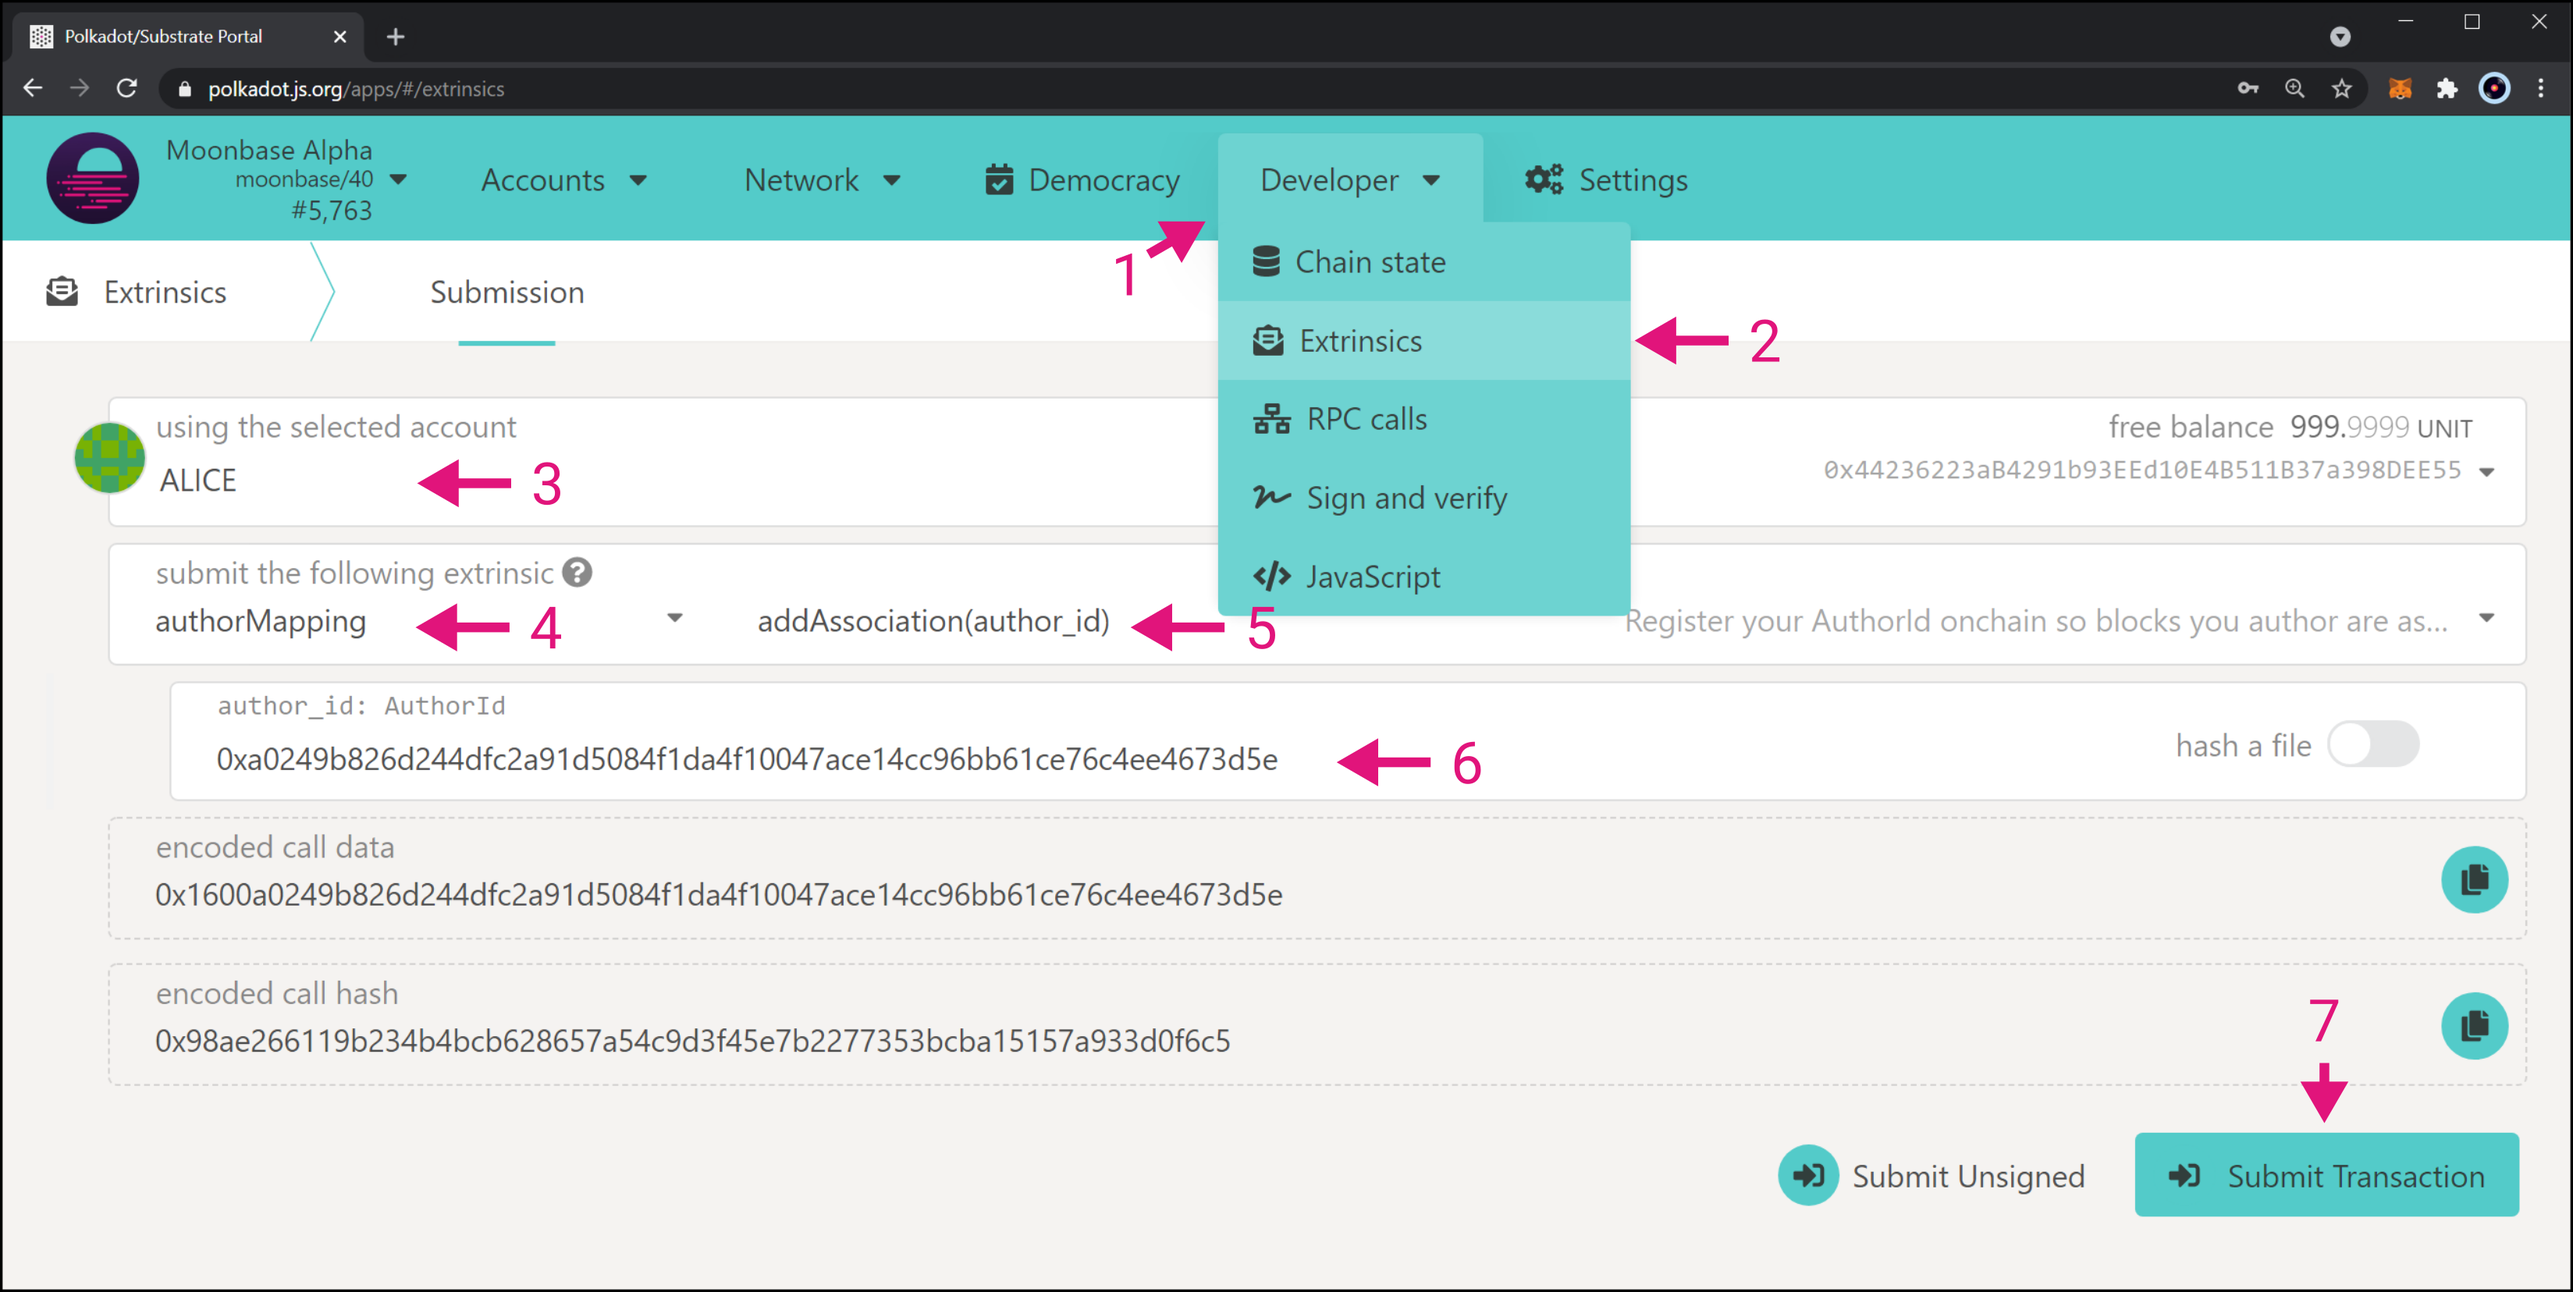
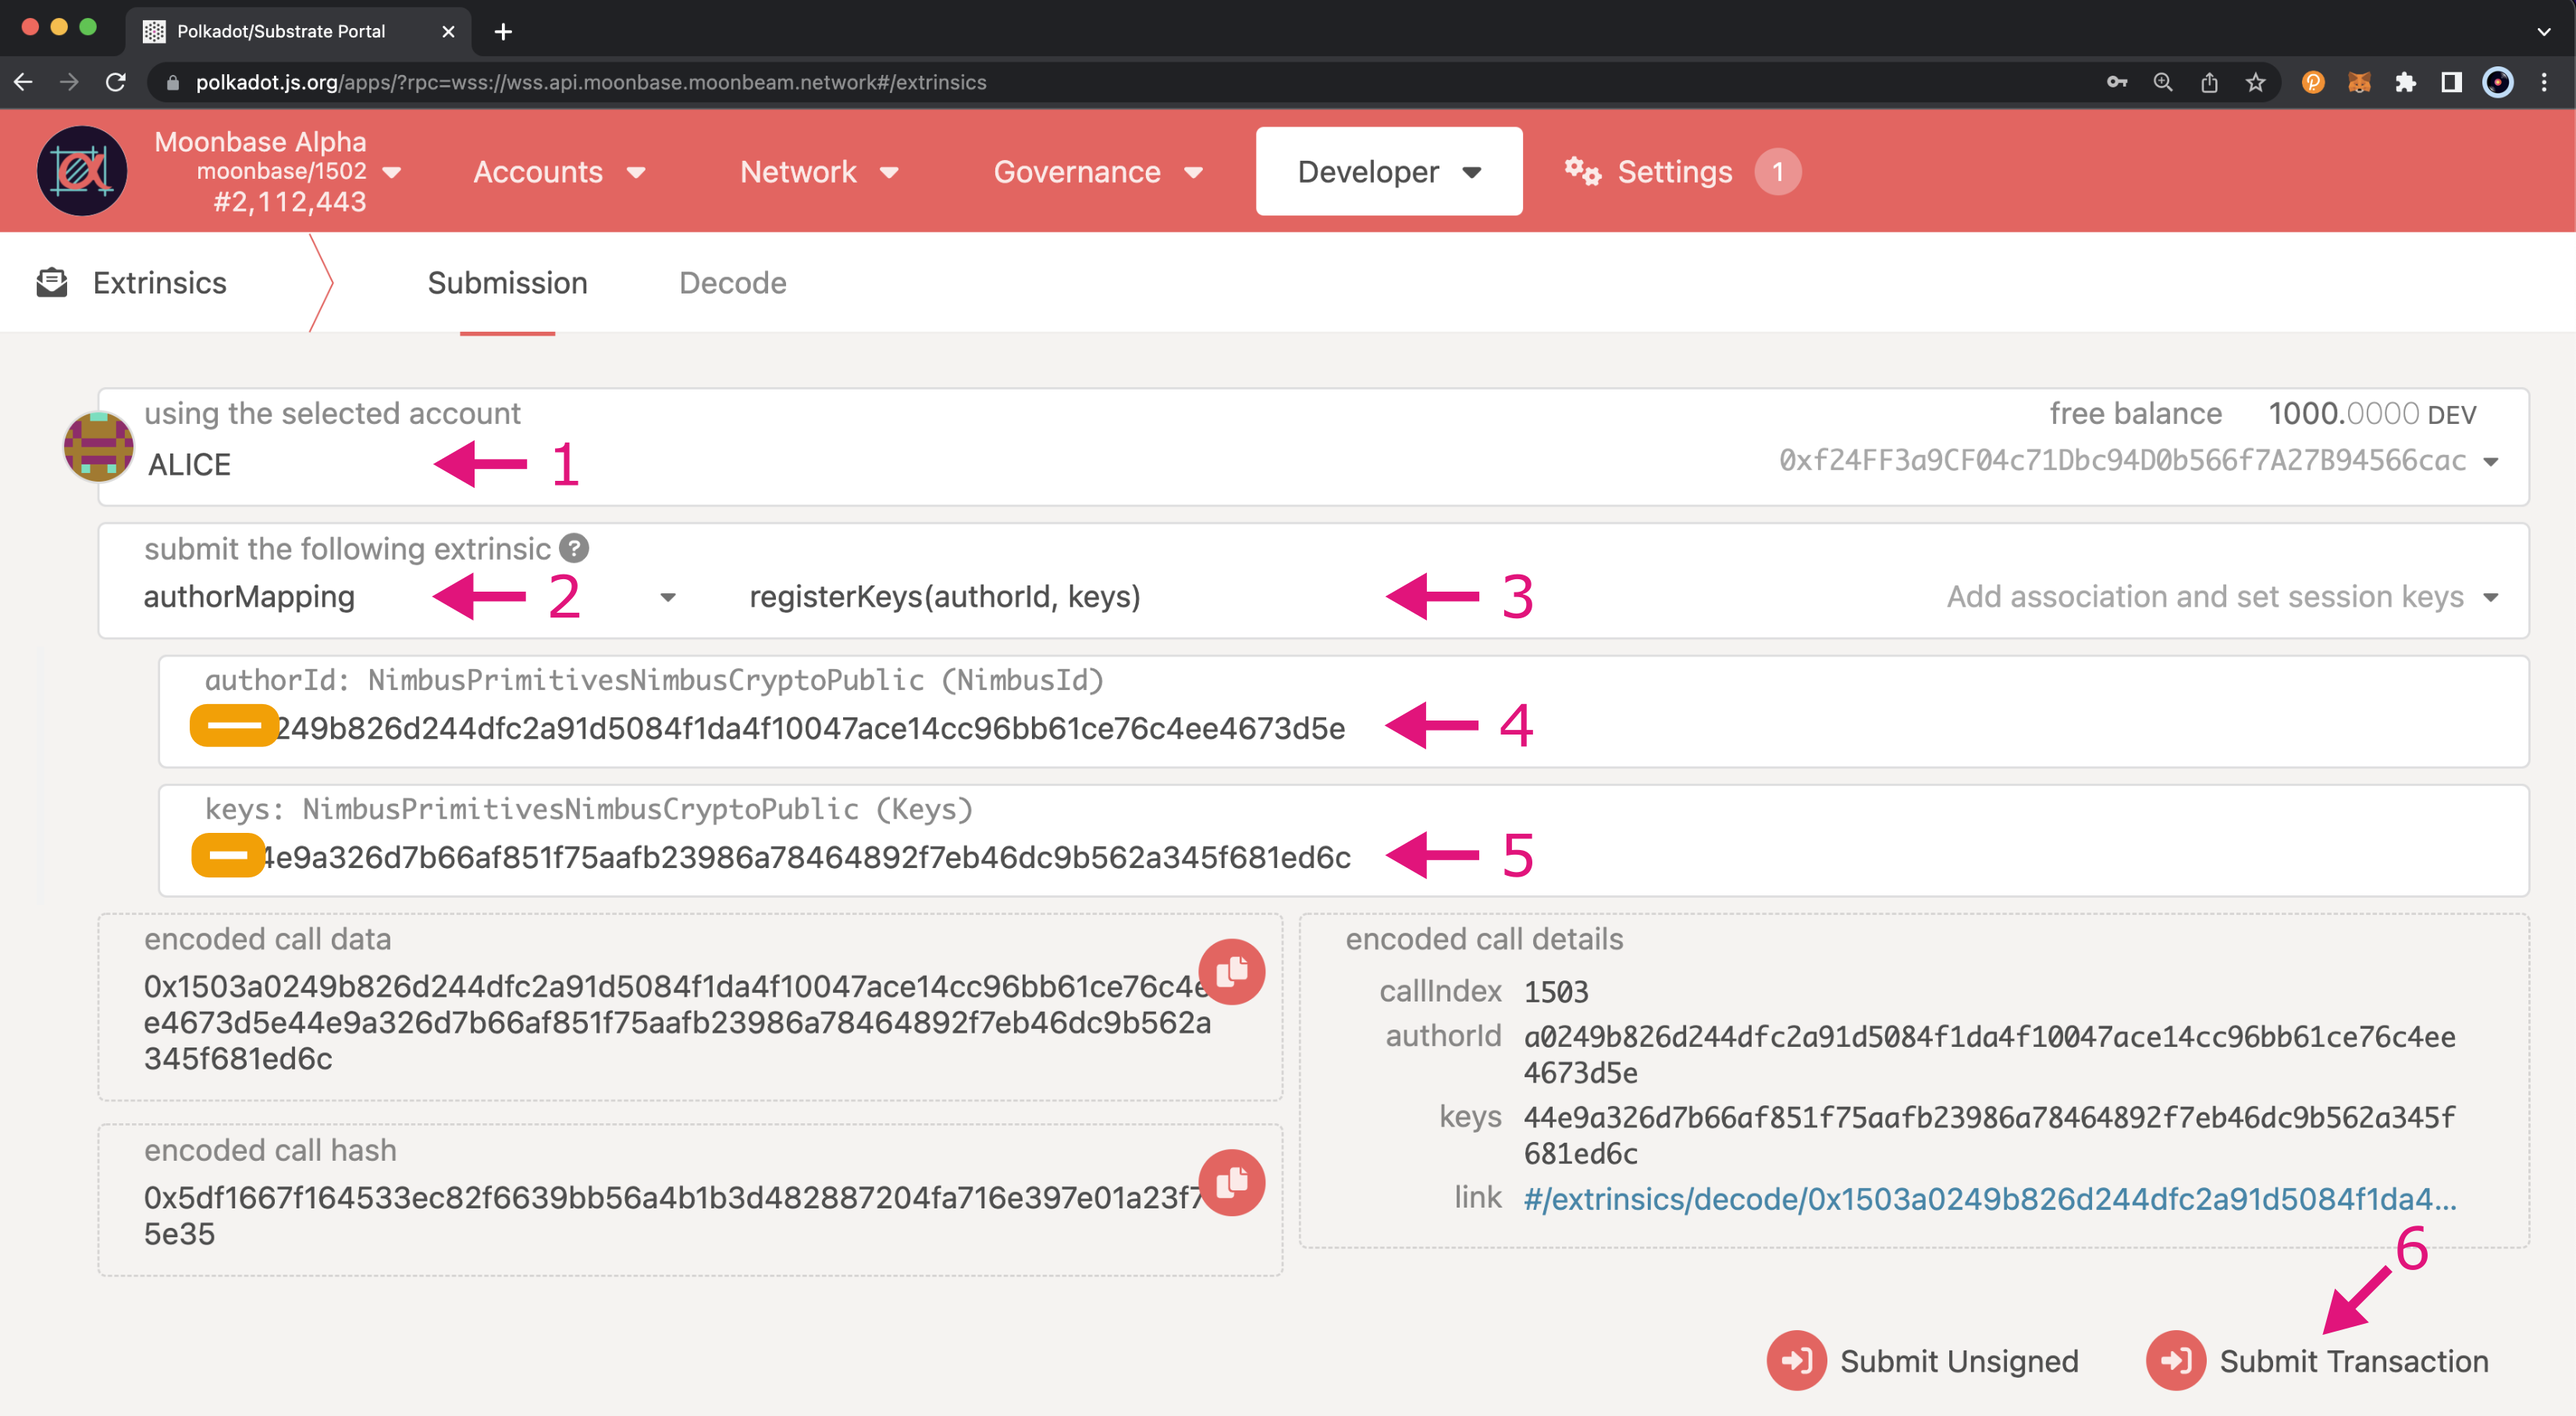
update images

diff --git a/node-operators/networks/collators/account-management.md b/node-operators/networks/collators/account-management.md
@@ -43,7 +43,7 @@ The collator node should respond with the corresponding public key of the new se
 
 ![Collator Terminal Logs RPC Rotate Keys](/images/node-operators/networks/collators/account-management/account-2.png)
 
-Make sure you write down the public key for each of the session keys. Each of your servers, your primary and backup, should have their own unique keys. Since the keys never leave your servers, you can consider them a unique ID for that server.
+Remember, you'll need to call `author_rotateKeys` for each session key you need to generate. Make sure you write down the public key for each of the session keys. Each of your servers, your primary and backup, should have their own unique keys. Since the keys never leave your servers, you can consider them a unique ID for that server.
 
 Next, you'll need to register your session keys and map the author ID session key to an H160 Ethereum-styled address to which the block rewards are paid.
 
@@ -74,16 +74,14 @@ The module also adds the following RPC calls (chain state):
 
 Once you've generated your session keys, the next step is to register the session keys and map the author ID to your H160 account (an Ethereum-style address). Make sure you hold the private keys to this account, as this is where the block rewards are paid out to.
 
-To map your author ID to your account, you need to be inside the [candidate pool](/node-operators/networks/collators/activities/#become-a-candidate){target=_blank}. Once you are a candidate, you need to send a mapping extrinsic. Note that this will bond tokens per author ID registered. To do so, take the following steps:
+To map your author ID to your account, you need to be inside the [candidate pool](/node-operators/networks/collators/activities/#become-a-candidate){target=_blank}. Once you are a candidate, you need to send a mapping extrinsic. Note that this will bond tokens per author ID registered. To do so, click on **Developer** at the top of the page, choose the **Extrinsics** option from the dropdown, and take the following steps:
 
- 1. Head to the **Developer** tab
- 2. Select the **Extrinsics** option
- 3. Choose the account that you want to map your author ID to be associated with, from which you'll sign this transaction
- 4. Select the **authorMapping** extrinsic
- 5. Set the method to **registerKeys()**
- 6. Enter the **authorId** (**NimbusId**). In this case, it was obtained via the RPC call `author_rotateKeys` in the previous section
- 7. For the **keys** field, enter the VRF key. This should have been obtained via an additional `author_rotateKeys` RPC call
- 8. Click on **Submit Transaction**
+ 1. Choose the account that you want to map your author ID to be associated with, from which you'll sign this transaction
+ 2. Select the **authorMapping** extrinsic
+ 3. Set the method to **registerKeys()**
+ 4. Enter the **authorId** (**NimbusId**). In this case, it was obtained via the RPC call `author_rotateKeys` in the previous section
+ 5. For the **keys** field, enter the VRF key. This should have been obtained via an additional `author_rotateKeys` RPC call
+ 6. Click on **Submit Transaction**
 
 ![Author ID Mapping to Account Extrinsic](/images/node-operators/networks/collators/account-management/account-3.png)
 
@@ -93,14 +91,12 @@ If the transaction is successful, you will see a confirmation notification on yo
 
 ### Checking the Mappings {: #checking-the-mappings } 
 
-You can also check the current on-chain mappings by verifying the chain state. To do so, take the following steps:
+You can also check the current on-chain mappings by verifying the chain state. You'll need to click on **Developer** at the top of the page, then choose **Chain State** from the dropdown, and take the following steps:
 
- 1. Head to the **Developer** tab
- 2. Select the **Chain state** option
- 3. Choose **authorMapping** as the state to query
- 4. Select the **mappingWithDeposit** method
- 5. Provide an author ID to query. Optionally, you can disable the slider to retrieve all mappings 
- 6. Click on the **+** button to send the RPC call
+ 1. Choose **authorMapping** as the state to query
+ 2. Select the **mappingWithDeposit** method
+ 3. Provide an author ID (Nimbus ID) to query. Optionally, you can disable the slider to retrieve all mappings 
+ 4. Click on the **+** button to send the RPC call
 
 ![Author ID Mapping Chain State](/images/node-operators/networks/collators/account-management/account-5.png)
 
